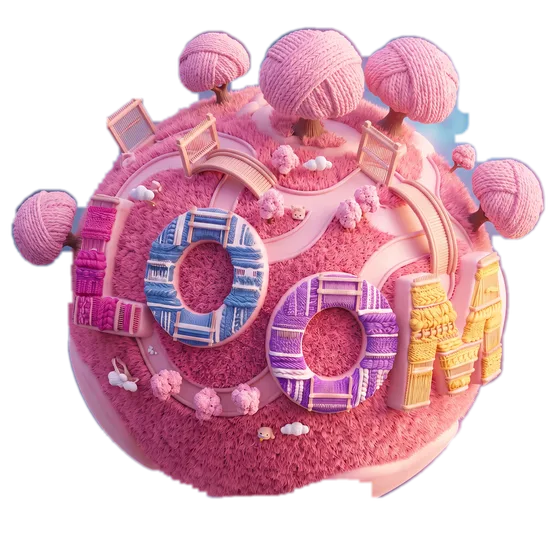
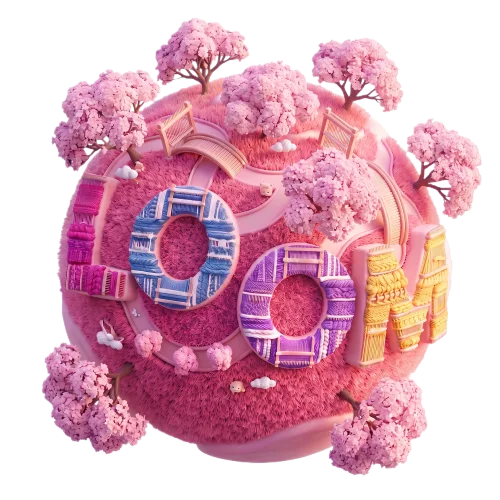
Fix case-overlay jank, bigger WhatsApp button, cleaner hero planet
- src/lib/viewportBudget.js: the image-eviction restore path processed every
  image that crossed the boundary in one synchronous IntersectionObserver
  callback. A fast scroll through the apps/lab showcase (11 device frames +
  11 unique stills in one screenful) could cross that boundary for dozens of
  images between two callbacks, restoring all of them on the main thread at
  once — measured worst-frame 1089ms before, 120ms after queuing restores and
  draining a few per animation frame. This is very likely also why case
  overlays read as "opens, then scrolling turns stiff": the same stall
  happens the instant the overlay's own image-heavy content scrolls in.
- src/components/Flyer.jsx + Sections.jsx: the page-wide butterfly and the
  hero's own rAF loop kept running under a locked overlay — a second
  animation loop fighting the sheet's own drag/scroll every frame. Both now
  watch the same overlay-open/menu-open class Lenis already does and stop.
- whatsapp-fab.css: bigger mark and hit area (48->58px icon, 64->76px pill;
  56->66px / 42->50px on mobile).
- New hero planet render (bg already clean, not re-keyed) replaces the
  matte-keyed one — resized+requantized 843KB -> 354KB, no visible loss at
  its actual painted size. Fixed two real bugs the swap exposed: the mobile
  CSS fallback was `inset:0` at full hero size, burying the eyebrow and
  headline under it, and the WebGL path's "narrow" scale didn't account for
[…]

diff --git a/src/components/Sections.jsx b/src/components/Sections.jsx
@@ -50,19 +50,27 @@ export function Hero() {
       const onMouse = (e) => {
         field.setMouse((e.clientX / window.innerWidth) * 2 - 1, -((e.clientY / window.innerHeight) * 2 - 1))
       }
-      const io = new IntersectionObserver(([en]) => {
-        en.isIntersecting ? field.start() : field.stop()
-      })
+      let inView = false
+      const sync = () => {
+        const locked = document.documentElement.classList.contains('overlay-open')
+          || document.documentElement.classList.contains('menu-open')
+        ;(inView && !document.hidden && !locked) ? field.start() : field.stop()
+      }
+      const io = new IntersectionObserver(([en]) => { inView = en.isIntersecting; sync() })
       io.observe(wrapRef.current)
-      const onVis = () => { document.hidden ? field.stop() : field.start() }
+      // A case study or the wizard opening locks scroll but leaves this loop
+      // running underneath it — see the identical note in Flyer.jsx.
+      const lockObs = new MutationObserver(sync)
+      lockObs.observe(document.documentElement, { attributes: true, attributeFilter: ['class'] })
+      document.addEventListener('visibilitychange', sync)
       window.addEventListener('scroll', onScroll, { passive: true })
       window.addEventListener('mousemove', onMouse, { passive: true })
-      document.addEventListener('visibilitychange', onVis)
       teardown = () => {
         window.removeEventListener('scroll', onScroll)
         window.removeEventListener('mousemove', onMouse)
-        document.removeEventListener('visibilitychange', onVis)
+        document.removeEventListener('visibilitychange', sync)
         io.disconnect()
+        lockObs.disconnect()
         field.dispose()
       }
     })()

diff --git a/src/lib/viewportBudget.js b/src/lib/viewportBudget.js
@@ -91,9 +91,32 @@ export function imageBudget({ force = false } = {}) {
     if (src) img.setAttribute('src', src)
   }
 
+  // A fast scroll through an image-dense section (the apps/lab showcase is
+  // the worst of them: 11 device frames + 11 unique stills in one screenful)
+  // can cross the eviction boundary for dozens of images between two
+  // IntersectionObserver callbacks. Restoring all of them synchronously in
+  // that one callback is a real main-thread stall — exactly "scrolling turns
+  // stiff right where the phones are". Evictions stay synchronous (freeing
+  // memory can't wait); restores are queued and drained a few per frame.
+  const restoreQueue = []
+  let draining = false
+  const drain = () => {
+    draining = true
+    for (let n = 0; n < 4 && restoreQueue.length; n++) restore(restoreQueue.shift())
+    if (restoreQueue.length) requestAnimationFrame(drain)
+    else draining = false
+  }
+  const queueRestore = (img) => {
+    if (!restoreQueue.includes(img)) restoreQueue.push(img)
+    if (!draining) drain()
+  }
+
   const io = new IntersectionObserver(
     (entries) => {
-      for (const e of entries) e.isIntersecting ? restore(e.target) : evict(e.target)
+      for (const e of entries) {
+        if (e.isIntersecting) queueRestore(e.target)
+        else { const i = restoreQueue.indexOf(e.target); if (i !== -1) restoreQueue.splice(i, 1); evict(e.target) }
+      }
     },
     // Two viewports of headroom in both directions. Wide enough that a restore
     // has decoded long before the image could be seen, tight enough that a fast

diff --git a/src/styles.css b/src/styles.css
@@ -236,6 +236,7 @@ html.cursor-hot .cursor-ring {
 
 /* ——— hero ——— */
 .hero {
+  position: relative;
   min-height: 100svh;
   display: grid; align-items: end;
   padding: 118px var(--pad) clamp(60px, 10vh, 110px);
@@ -248,16 +249,25 @@ html.cursor-hot .cursor-ring {
 .hero-canvas { width: 100%; height: 100%; display: block; }
 /* Touch devices are never given the hero's WebGL context — one context per
    page is what stopped iPhones dying (Sections.jsx:31) — so the planet arrives
-   as a still instead. Same art, ~62 KB, no second renderer. */
+   as a still instead. Same art, ~40 KB, no second renderer.
+   Sized and pinned to the empty band ABOVE the copy (the hero is bottom-anchored,
+   .hero padding-top:118px), not stretched across the whole hero — inset:0 at full
+   size is what buried the eyebrow and headline under it. */
 @media (pointer: coarse) {
   .hero-canvas-wrap::after {
     content: '';
     position: absolute;
-    inset: 0;
-    background: url('/img/hero/planet-sm.webp') no-repeat center 20% / min(74vw, 380px) auto;
-    opacity: 0.92;
+    top: 6%;
+    right: -8%;
+    width: min(62vw, 300px);
+    aspect-ratio: 1;
+    background: url('/img/hero/planet-sm.webp') no-repeat center / contain;
+    opacity: 0.95;
     pointer-events: none;
   }
+}
+@media (pointer: coarse) and (max-height: 700px) {
+  .hero-canvas-wrap::after { top: 2%; width: min(52vw, 240px); }
 }
 .hero-vignette {
   position: absolute; inset: 0;

diff --git a/src/three/PlanetField.js b/src/three/PlanetField.js
@@ -186,10 +186,17 @@ export class PlanetField {
     })
     this.disposables.push(this.planetMat)
     this.planet = new THREE.Mesh(quad, this.planetMat)
-    this.planet.scale.setScalar(narrow ? 3.2 : 3.6)
-    // clear of the headline: the type owns the left two thirds, the planet
-    // the right, and neither is asked to share a column
-    this.planetHome = new THREE.Vector3(narrow ? 0 : 2.32, narrow ? 0.6 : 0.5, 0)
+    // Vertical fov is fixed, so a portrait screen (aspect well under 1) has a
+    // NARROWER horizontal frustum than a desktop one — the same world-space
+    // scale therefore eats a much bigger fraction of a phone's width. 2.0 is
+    // tuned against an iPhone's ~0.45 aspect, not guessed down from desktop's.
+    this.planet.scale.setScalar(narrow ? 2.0 : 3.6)
+    // Clear of the headline. Desktop: type owns the left two thirds, planet the
+    // right. Narrow: the hero is single-column and bottom-anchored (.hero
+    // align-items:end), so the planet lives in the gap above the copy instead —
+    // pushed up and right, corner-cropped like a badge rather than centred over
+    // the eyebrow line the way a scaled-down desktop placement would sit.
+    this.planetHome = new THREE.Vector3(narrow ? 0.85 : 2.32, narrow ? 1.65 : 0.5, 0)
     this.planet.position.copy(this.planetHome)
     this.scene.add(this.planet)
 

diff --git a/src/components/Flyer.jsx b/src/components/Flyer.jsx
@@ -56,7 +56,20 @@ export function Flyer() {
       window.addEventListener('resize', onScroll, { passive: true })
       document.addEventListener('visibilitychange', onVis)
 
+      // A case study or the wizard opening locks page scroll but leaves the
+      // butterfly's own rAF loop running underneath it — a second animation
+      // loop fighting the overlay's own scroll/drag every frame, which is
+      // exactly the "opens fine, then scrolling goes stiff" symptom. Same
+      // overlay-open/menu-open signal Lenis and MobileChrome already watch.
+      const lockObs = new MutationObserver(() => {
+        const locked = document.documentElement.classList.contains('overlay-open')
+          || document.documentElement.classList.contains('menu-open')
+        locked ? field.stop() : (document.hidden || field.start())
+      })
+      lockObs.observe(document.documentElement, { attributes: true, attributeFilter: ['class'] })
+
       teardown = () => {
+        lockObs.disconnect()
         window.removeEventListener('scroll', onScroll)
         window.removeEventListener('resize', onScroll)
         document.removeEventListener('visibilitychange', onVis)

diff --git a/src/components/whatsapp-fab.css b/src/components/whatsapp-fab.css
@@ -8,8 +8,8 @@
   display: flex;
   align-items: center;
   gap: 10px;
-  height: 64px;
-  padding: 0 8px;
+  height: 76px;
+  padding: 0 10px;
   border-radius: 999px;
   border: 1px solid rgba(242, 240, 247, 0.1);
   background: rgba(13, 7, 22, 0.62);
@@ -22,8 +22,8 @@
 }
 
 .wa-fab img {
-  width: 48px;
-  height: 48px;
+  width: 58px;
+  height: 58px;
   display: block;
   flex: none;
   filter: drop-shadow(0 4px 10px rgba(0, 0, 0, 0.45));
@@ -73,11 +73,11 @@
   .wa-fab {
     right: 16px;
     bottom: calc(16px + env(safe-area-inset-bottom));
-    height: 56px;
-    width: 56px;
+    height: 66px;
+    width: 66px;
     padding: 0;
     justify-content: center;
   }
-  .wa-fab img { width: 42px; height: 42px; }
+  .wa-fab img { width: 50px; height: 50px; }
   .wa-fab__label { display: none; }
 }
